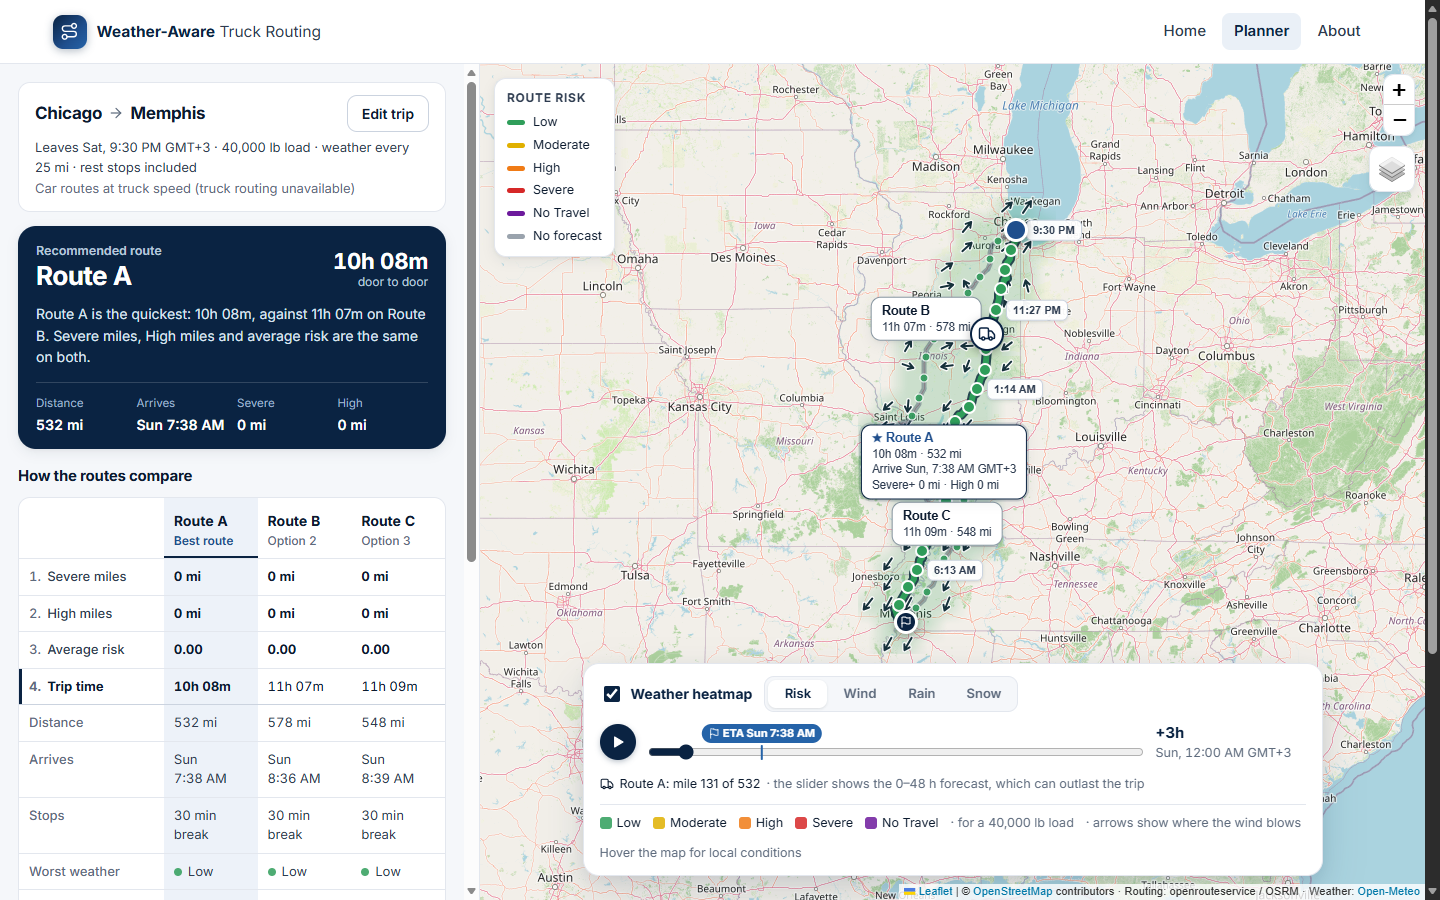
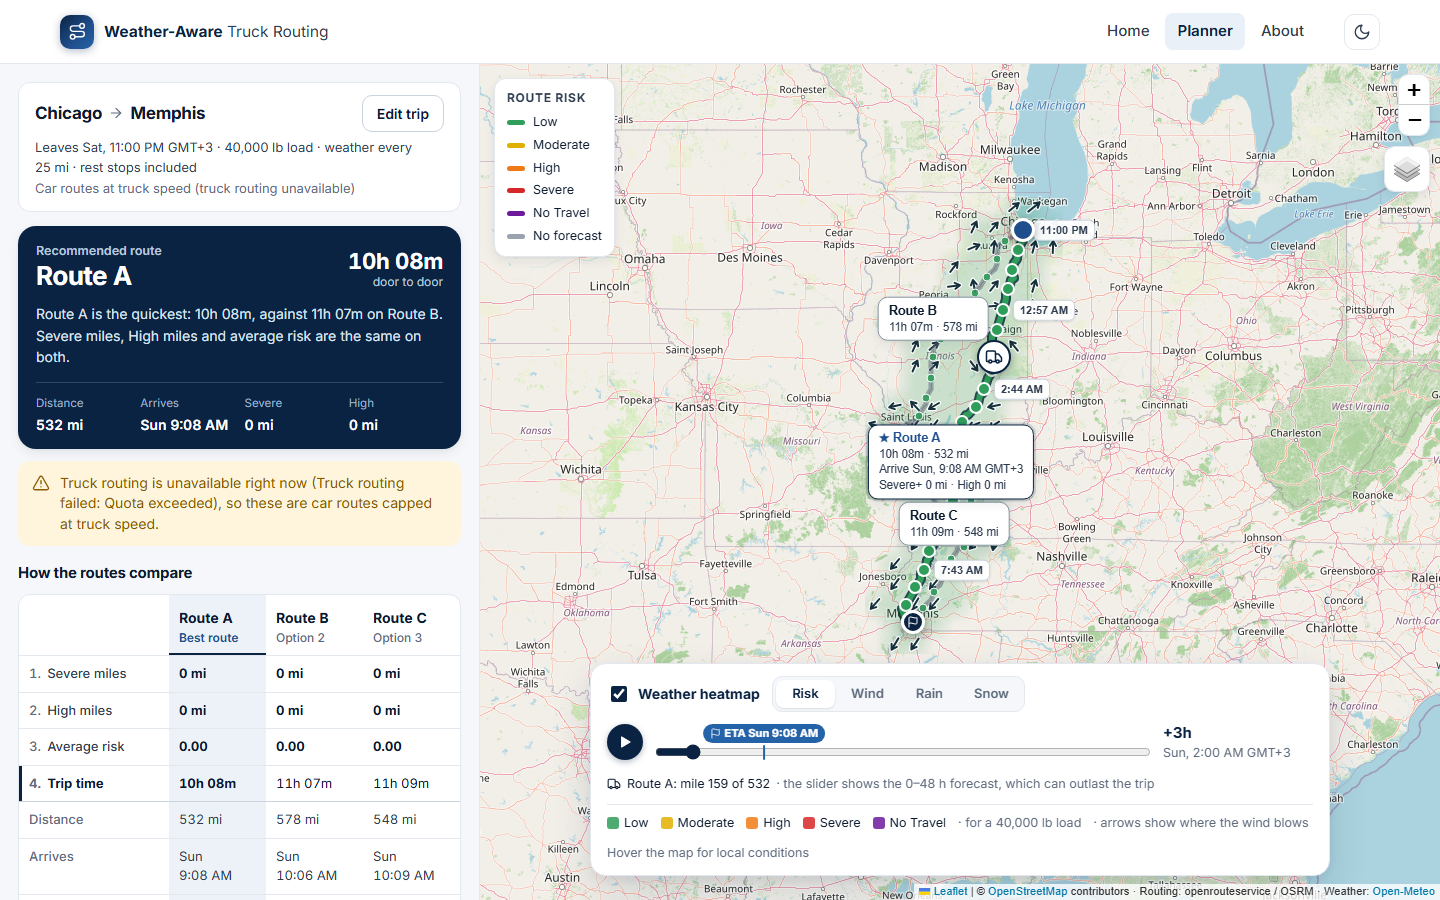
README: new planner screenshot, plus one in night mode

diff --git a/README.md b/README.md
@@ -18,6 +18,8 @@ Enter an origin, destination, departure time and load weight. The app finds **3 
 
 **Day and night mode.** The sun / moon button in the header switches between a light day theme and a dark night theme, which is easier on the eyes in a cab at night. On a first visit the site follows the device's light or dark setting; once you pick one, the browser remembers it. At night the street map is darkened too (terrain and satellite stay as they are), and the risk colours don't change.
 
+![The planner in night mode](docs/screenshot-night.png)
+
 ## Requirements at a glance
 
 | Requirement | Code | Tests |
